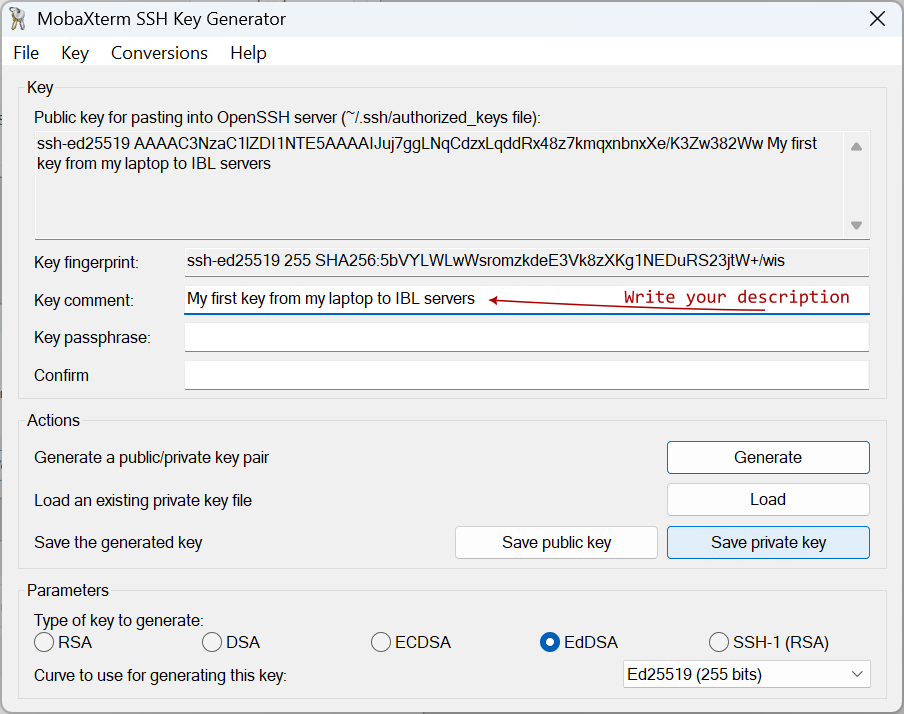
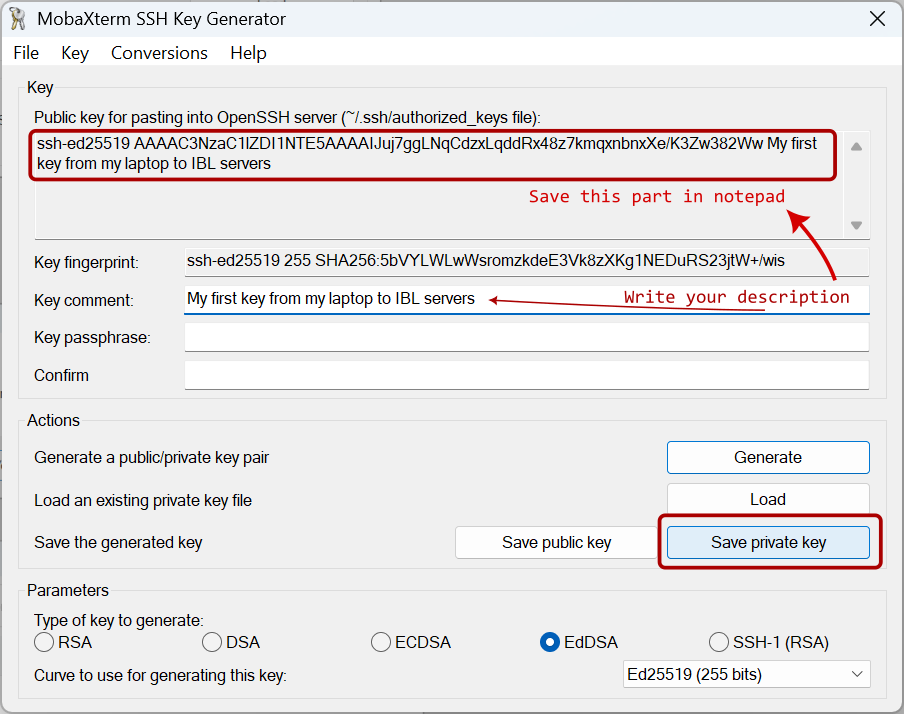
Finish first versiong of mobaxterm setup

Changed region(s): [[0.031, 0.1541, 0.9292, 0.3389], [0.7124, 0.7087, 0.9912, 0.8011], [0.8982, 0.3389, 0.9292, 0.4006]]

diff --git a/docs/source/ssh access/ssh access mobaxterm.md b/docs/source/ssh access/ssh access mobaxterm.md
@@ -1,6 +1,10 @@
 # MobaXterm setup
 
-MobaXterm is a 3<sup>rd</sup> party terminal application for Windows. The program has a dedicated part of dealing SSH connections, which is quite user friendly. Additionally, it comes with **X11 server**, which allows you to run some GUI applications on the remoter server, while show the interface locally. For example, you can run python or R plotting scripts and show the plots locally. While in a pure SSH connection, you can only save the plot to images (PNG or JPEG) and then transfer them back to your local computer to view the result.
+*By C.Du [@snail123815](https://github.com/snail123815)*
+
+MobaXterm is a third-party terminal application for Windows. The program has a user friendly way of setting up SSH connections. Additionally, MobaXterm is bundled with **X11 server**, which allows you to run GUI applications on the remoter server and show the interface locally. With *X11 server*, you can run python or R plotting scripts and show the plots locally.
+
+(In contrast, with a simple SSH connection, you can only save the plot to image files and then transfer them back to your local computer to view the result. Of course you can install standalone X11 server on your computer and make SSH connection work with it, it is not as handy.)
 
 You can download MobaXterm home edition from [this link](https://mobaxterm.mobatek.net/download-home-edition.html). For university computers, please download the "Portable edition" on the left; for your own computer, both are fine.
 
@@ -8,16 +12,20 @@ You can download MobaXterm home edition from [this link](https://mobaxterm.mobat
 
 ## Portable edition
 
-Please right click on the downloaded file, select "Extract all", select a good location to store `MobaXterm_Portable_v*`. Can be in your "Documents" folder:
+Please right click on the downloaded file, select "Extract all", select a good location to store extracted `MobaXterm_Portable_v*`. Can be in your "Documents" folder:
 
 ![Unzip MobaXterm](../_static/images/mobaxterm_unzip.png)
 
 You can now enter the folder, right click on the executable file "MobaXterm_Personal_***.exe" and "Pin to Start" or "Send to" -> "Desktop (create shortcut)" to make it readily accessible.
 
-Now start MobaXterm, I recommend one more setting before continue:  
+## Start MobaXterm
+
+Now start MobaXterm, I recommend one setup before continuing:  
 Settings -> Configuration -> (tab General) -> Persistent home directory
 
 ![Persistent home directory 1](../_static/images/mobaxterm_persistent_home_1.png)
+
+Set it up in your Document directory.
 
 ![Persistent home directory 2](../_static/images/mobaxterm_persistent_home_2.png)
 
@@ -26,6 +34,13 @@ After click OK, you should see:
 ![Persistent home directory 3](../_static/images/mobaxterm_persistent_home_3.png)
 
 Now restart MobaXterm as indicated.
+
+```{admonition} For command line setup tutorial
+:class: info
+For CLI lovers, you can now generate a default "Shell" session:
+
+Go to the main window of MobaXterm, click the "Star" icon on the left, right click on "User sessions", select "New session", select "Shell" from the top row of icons, click OK. Then follow [CLI SSH setup tutorial](./ssh%20access%20command%20line.md)
+```
 
 ## Generate SSH key pairs
 
@@ -39,12 +54,138 @@ Look at the bottom of the popup window, select "EdDSA" as encryption method (sam
 
 Now move your mouse inside the box above randomly to generate some randomisation. You will see a progress bar, soon it will be done.
 
-Then write your description in the "Key comment:" field: "My first key from my laptop to IBL servers"
+Then write your description in the "Key comment:" "My first key from my laptop to IBL servers"
 
 ![MobaXterm keygen comment and save](../_static/images/mobaxterm_keygen_comment_save.png)
 
-Then click "Save private key" to save the generated key pair. Click "Yes" when warned about "passphrase". Save with the file name "sshkey_to_ibl_servers" to your Persistent home directory or anywhere safe to your self.
+Please open *notepad*, save the text in "Public key for pasting into ..." box by copy and paste, we will use this text later.
+
+Then click "Save private key" to save the generated key pair. Click "Yes" when warned about "passphrase". Save with the file name "sshkey_to_ibl_servers" to your Persistent home directory or anywhere safe to yourself.
 
 ![mobaxterm_keygen_comment_save_warn](../_static/images/mobaxterm_keygen_comment_save_warn.png)
 
 ![mobaxterm_keygen_comment_save_privatekey](../_static/images/mobaxterm_keygen_comment_save_privatekey.png)
+
+Now you can do the same to create another key pair. *For University managed desktop, skip generating this second key pair.*
+
+![mobaxterm keygen second](../_static/images/mobaxterm_keygen_second.png)
+
+Then click "Save private key" again to save the generated key pair. Click "Yes" when warned about "passphrase". Save with the file name "sshkey_to_lu_gateway" to the same directory.
+
+Save the text in "Public key for pasting into ..." box text in notepad. Your notepad should have two lines of text, *one for University managed desktop*:
+
+![mobaxterm public keys](../_static/images/mobaxterm_keygen_public_keys.png)
+
+## Put public keys to servers
+
+Now we need to make first connections to the servers, tell them that you have made some keys and locks (public keys), configure the public keys for them to recognise you.
+
+### Create the target session
+
+Go to the main window of MobaXterm, click the "Star" icon on the left, right click on "User sessions", select "New session".
+
+![new session](../_static/images/mobaxterm_new_session_1.png)
+
+A "Session settings" window will popup. Follow the numbers in the following screenshot to do the configuration. For Nr.6, setup the SSH key path to the "sshkey_to_ibl_servers.ppk" file saved in the previous step.
+
+*For University managed desktop, you do not need to click on "Network settings", just click OK, then "Cancel" the immediate connection. Please read through the following content anyway and start following the tutorial at this step: [Configure IBL server public key](#configure-ibl-server-public-key)*
+
+For others, continue to click on the "Network settings".
+
+![new session for server](../_static/images/mobaxterm_session_config_1.png)
+
+In the popup window, click "SSH gateway (jump host)"
+
+![gateway setting 1](../_static/images/mobaxterm_session_gateway_1.png)
+
+Setup as the following screenshot. Select "Use SSH key" and setup the path to the file "sshkey_to_lu_gateway.ppk"
+
+![gateway setting 2](../_static/images/mobaxterm_session_gateway_2.png)
+
+Now click OK -> OK go back to the main window. MobaXterm will start connecting immediately and start asking you for passwords. Please "Cancel" it. The session setup is done but the servers do not know our keys yet. You can, however, test your connections by continue using passwords to login. First your ULCN account password, then your IBL server password (probably you need to change it immediately, follow instructions on screen).
+
+### Create gateway session
+
+Now we need to setup a temporary session to the University gateway server. Follow the numbers in this screenshot to configure. **Please use your ULCN user name here.**
+
+![temporary session for gateway](../_static/images/mobaxterm_new_session_ulgateway.png)
+
+A warning will pop, showing it is your first time connecting to the server, please "Accept".
+
+![unknown server warning](../_static/images/mobaxterm_session_unknown_server.png)
+
+Then you will be asked to enter password, remember you are using your ULCN to connect to the gateway, please use ULCN password here.
+
+![gateway asking for a password](../_static/images/mobaxterm_gateway_askforpassword.png)
+
+```{admonition} Be careful
+:class: warning
+You can retry few times for the ULCN password, but keep in mind that the gate way will block you very soon when you tried too many times.
+```
+
+Then MobaXterm will ask you to save the password, select "No".
+
+![mobaxterm save password](../_static/images/mobaxterm_save_password.png)
+
+```{admonition} About saving password
+:class: note
+Since we are using SSH key pairs in this tutorial, saving the password for "password-less" login will cause MobaXterm to fall back to password login when the key pair setup is wrong. You will miss some debugging information.
+
+It is possible though, to setup the connections to the gateway server and to IBL servers using saved password. Then you can forget about the SSH key pairs you generated. Please do encrypt the local password with a "Master Password" as indicated by MobaXterm. Then you only need to unlock the password in MobaXterm once in a while when making SSH connections.
+```
+
+Now you should be successfully enter the gateway
+
+![successful session](../_static/images/mobaxterm_success_session_ulgateway.png)
+
+### Configure gateway public key
+
+Now create a directory called `.ssh` by entering `mkdir .ssh` command, then enter the directory using `cd .ssh` command (cd for **c**hange **d**irectory). Remember to add a space ` ` between *program* and *arguments*. For example, `mkdir` is the program, and `.ssh` is its argument. Hit enter on your keyboard to execute each command.
+
+![successful session](../_static/images/mobaxterm_success_session_ulgateway_instructions.png)
+
+Now enter `echo "`, do not hit enter yet. Go to your notepad, copy the second line:
+
+![mobaxterm public key copy the gateway](../_static/images/mobaxterm_keygen_public_keys_2.png)
+
+Paste it into the command line.
+
+```{admonition} Paste in MobaXterm
+:class: note
+
+If it is the first time you try to paste something into the command line, please right click in the command line window. A pop up will show.
+
+![mobaxterm paste](../_static/images/mobaxterm_paste.png)
+
+Choose at your will. Please remember what you chose, it will become difficult if you forgot how to paste text into the command line. If you have the following window after click OK, it means you copied multiple lines:
+
+![mobaxterm paste multiline](../_static/images/mobaxterm_paste_multi_line.png)
+
+A multi-line text will contain a hidden "carriage return" character (CR), which will act like you hit enter in the middle and execute the command that has already been entered. For our current operation, it does not matter because we have a quotation mark `"` before paste, the CR character will be pasted as is. It does not matter if you remove the CR or not. But for other commands, you might need to think about it, especially when the CR is at the end of your paste, you might execute the command accidentally. I would recommend you keep this warning message showing up in the future.
+```
+
+After pasting the public key, continue the command by entering `" >> authorized_keys`. Note the spaces in the command. Then hit enter to execute.  Now you should see a file called `authorized_keys` in `.ssh` folder. Show it use `ls` command. Then you can check the content of the file using `cat` command:
+
+![mobaxterm authorized keys](../_static/images/mobaxterm_authorized_keys_1.png)
+
+### Configure IBL server public key
+
+Next, let us put the other public key on the IBL server. Since all IBL servers share the same credential, you can use the same key pair to access all of them. I suggest you do configuration on one server, then copy the `.ssh/authorized_keys` file to the same location on all other servers using `scp` command.
+
+From the left of MobaXterm Window, click the "Star", then double click the session we created for IBL servers. It is the one with the IP address. We should be accepted by the gateway server and directly go to our target server. Our private key will be rejected by the target server because we haven't put our public key in `.ssh/authorized_keys` file yet. Enter the password provided by the registration email to login. If it is the first time you login, you will need to change the password immediately. Enter the old password again, then your own password twice to confirm.
+
+![mobaxterm target server password](../_static/images/mobaxterm_target_server.png)
+
+Now do the same: create `.ssh` directory, enter `.ssh` directory, copy the public key saved earlier
+
+![mobaxterm public key 1](../_static/images/mobaxterm_keygen_public_keys_1.png)
+
+Paste it into `authorized_keys` file:
+
+![mobaxterm copy to authorized keys](../_static/images/mobaxterm_authorized_keys_2.png)
+
+Valid the execution
+
+![mobaxterm copy to authorized keys](../_static/images/mobaxterm_authorized_keys_3.png)
+
+Now you can close all sessions, connect the target server again by double clicking the IP address session, you should be logged in directly without using any password.

diff --git a/docs/source/ssh access/ssh access command line.md b/docs/source/ssh access/ssh access command line.md
@@ -15,7 +15,8 @@ depth: 3
 - For MacOS (Apple operating system) users, open the "Terminal" application by typing "Terminal" in *spotlight*.
 - For Linux users, open the "Terminal" application (sometimes it is directly called "shell").
 - For Windows users, there are several options to be in a pure CLI environment:
-  - [**Git for windows**](https://gitforwindows.org) is recommended on University computers. It provides "GitBash" program that comes with a <u>shell</u> environment similar to Linux systems, and the settings will also be the same as Linux. The "GitBash" program can be executed without installation.
+  - [MobaXterm](./ssh%20access%20mobaxterm.md) is recommended on University computers. Please follow the link to download the program and then proceed to [start MobaXterm](./ssh%20access%20mobaxterm.md#start-mobaxterm), then come back to this page to follow the tutorial.
+  - [**Git for windows**](https://gitforwindows.org) provides "GitBash" program that comes with a <u>shell</u> environment similar to Linux systems, and the settings will also be the same as Linux. The "GitBash" program can be executed without installation.
   - [**Windows Terminal**](https://apps.microsoft.com/detail/9n0dx20hk701?hl=en-US&gl=US) app. On University computers, you need to login to your personal Microsoft account to install it from Microsoft Store. It is a focused terminal emulator, able to host shells including:
     - Window PowerShell
     - Windows Subsystem for Linux (WSL) shells - Requires WSL installation
